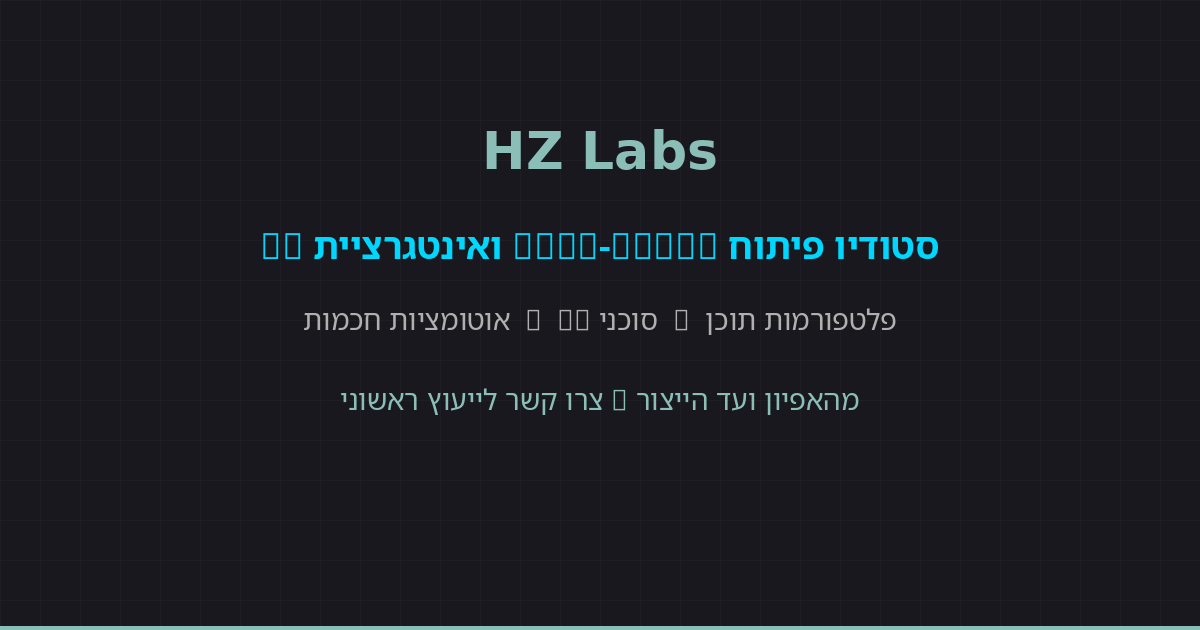
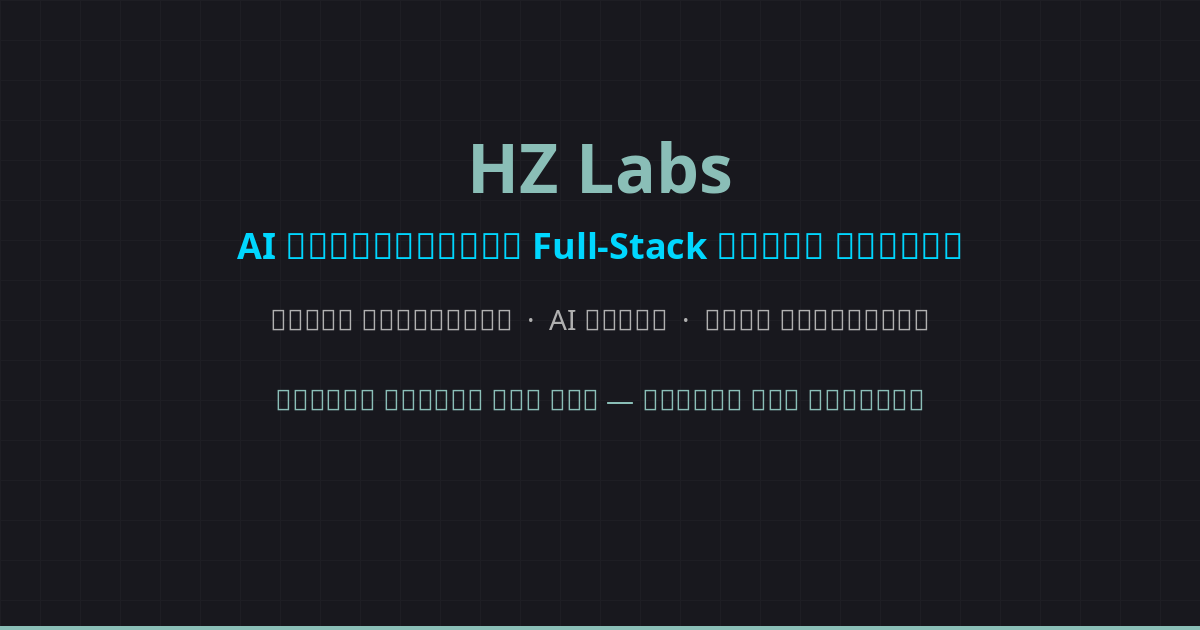
Fix og-image: use Noto Sans with proper Latin+Hebrew glyph support

diff --git a/gen_og.py b/gen_og.py
@@ -13,19 +13,18 @@ for i in range(0, h, 40):
 # Cyan accent line at bottom
 draw.rectangle([(0, h-4), (w, h)], fill='#8abeb7')
 
-# Use standard Noto Sans Hebrew (not condensed) for better readability
-font_title = ImageFont.truetype('/usr/share/fonts/truetype/noto/NotoSansHebrew-Bold.ttf', 68)
-font_sub   = ImageFont.truetype('/usr/share/fonts/truetype/noto/NotoSansHebrew-Bold.ttf', 36)
-font_small = ImageFont.truetype('/usr/share/fonts/truetype/noto/NotoSansHebrew-Regular.ttf', 28)
-font_mono  = ImageFont.truetype('/usr/share/fonts/truetype/dejavu/DejaVuSans-Bold.ttf', 52)
+# Use Noto Sans (supports both Latin and Hebrew scripts natively)
+font_title = ImageFont.truetype('/usr/share/fonts/truetype/noto/NotoSans-Bold.ttf', 68)
+font_sub   = ImageFont.truetype('/usr/share/fonts/truetype/noto/NotoSans-Bold.ttf', 36)
+font_small = ImageFont.truetype('/usr/share/fonts/truetype/noto/NotoSans-Regular.ttf', 28)
 
-# HZ Labs in monospace (centered)
+# HZ Labs title
 hz_text = 'HZ Labs'
-bbox = draw.textbbox((0,0), hz_text, font=font_mono)
+bbox = draw.textbbox((0,0), hz_text, font=font_title)
 tw = bbox[2] - bbox[0]
-draw.text(((w-tw)//2, 120), hz_text, fill='#8abeb7', font=font_mono)
+draw.text(((w-tw)//2, 120), hz_text, fill='#8abeb7', font=font_title)
 
-# Hebrew tagline
+# Hebrew tagline (mixed Hebrew + English — Noto Sans handles both)
 tagline = 'סטודיו פיתוח Full-Stack ואינטגרציית AI'
 bbox = draw.textbbox((0,0), tagline, font=font_sub)
 tw = bbox[2] - bbox[0]
@@ -44,4 +43,4 @@ tw = bbox[2] - bbox[0]
 draw.text(((w-tw)//2, 380), cta, fill='#8abeb7', font=font_small)
 
 img.save('/home/shayh/shay/hzlabs/og-image.png')
-print('Generated Hebrew og-image.png (1200x630) with standard Noto Sans Hebrew')
+print('Generated og-image.png with Noto Sans (Hebrew + Latin support)')
